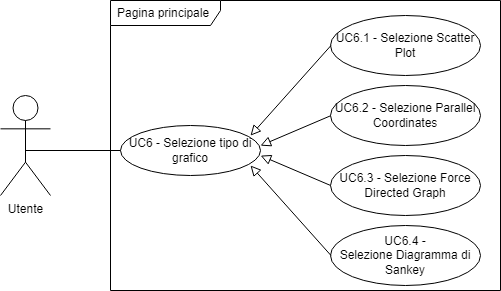
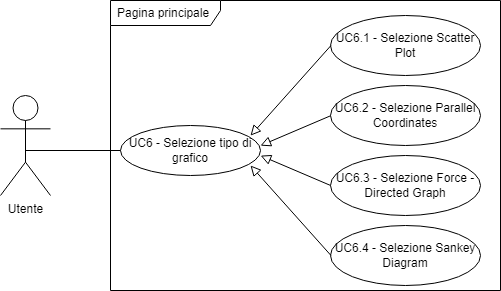
fix

Changed region(s): [[0.6587, 0.8041, 0.9581, 0.9588], [0.6587, 0.5876, 0.9581, 0.6495]]

diff --git a/src/documenti/esterni/AdR/contenuti/casi_uso.tex b/src/documenti/esterni/AdR/contenuti/casi_uso.tex
@@ -33,7 +33,7 @@
   \item \textbf{Postcondizioni:} l'utente visualizza un messaggio di errore e i dati non vengono caricati;
   \item \textbf{Scenario Principale:}
   \begin{enumerate}
-    \item l'utente visualizza un messaggio di errore esplicativo.
+    \item L'utente visualizza un messaggio di errore esplicativo.
   \end{enumerate}
 \end{itemize}
 
@@ -66,7 +66,7 @@
   \item \textbf{Postcondizioni:} l'utente visualizza un messaggio di errore e i dati non vengono caricati;
   \item \textbf{Scenario Principale:}
   \begin{enumerate}
-    \item l'utente visualizza un messaggio di errore esplicativo.
+    \item L'utente visualizza un messaggio di errore esplicativo.
   \end{enumerate}
 \end{itemize}
 
@@ -101,8 +101,8 @@
      \begin{enumerate}
          \item \textit{Scatter Plot} [UC6.1];
          \item \textit{Parallel Coordinates} [UC6.2];
-         \item \textit{Force Directed Graph} [UC6.3];
-         \item \textit{Diagramma di Sankey} [UC6.4].
+         \item \textit{Force-Directed Graph} [UC6.3];
+         \item \textit{Sankey Diagram} [UC6.4].
      \end{enumerate}
  \end{itemize}
 
